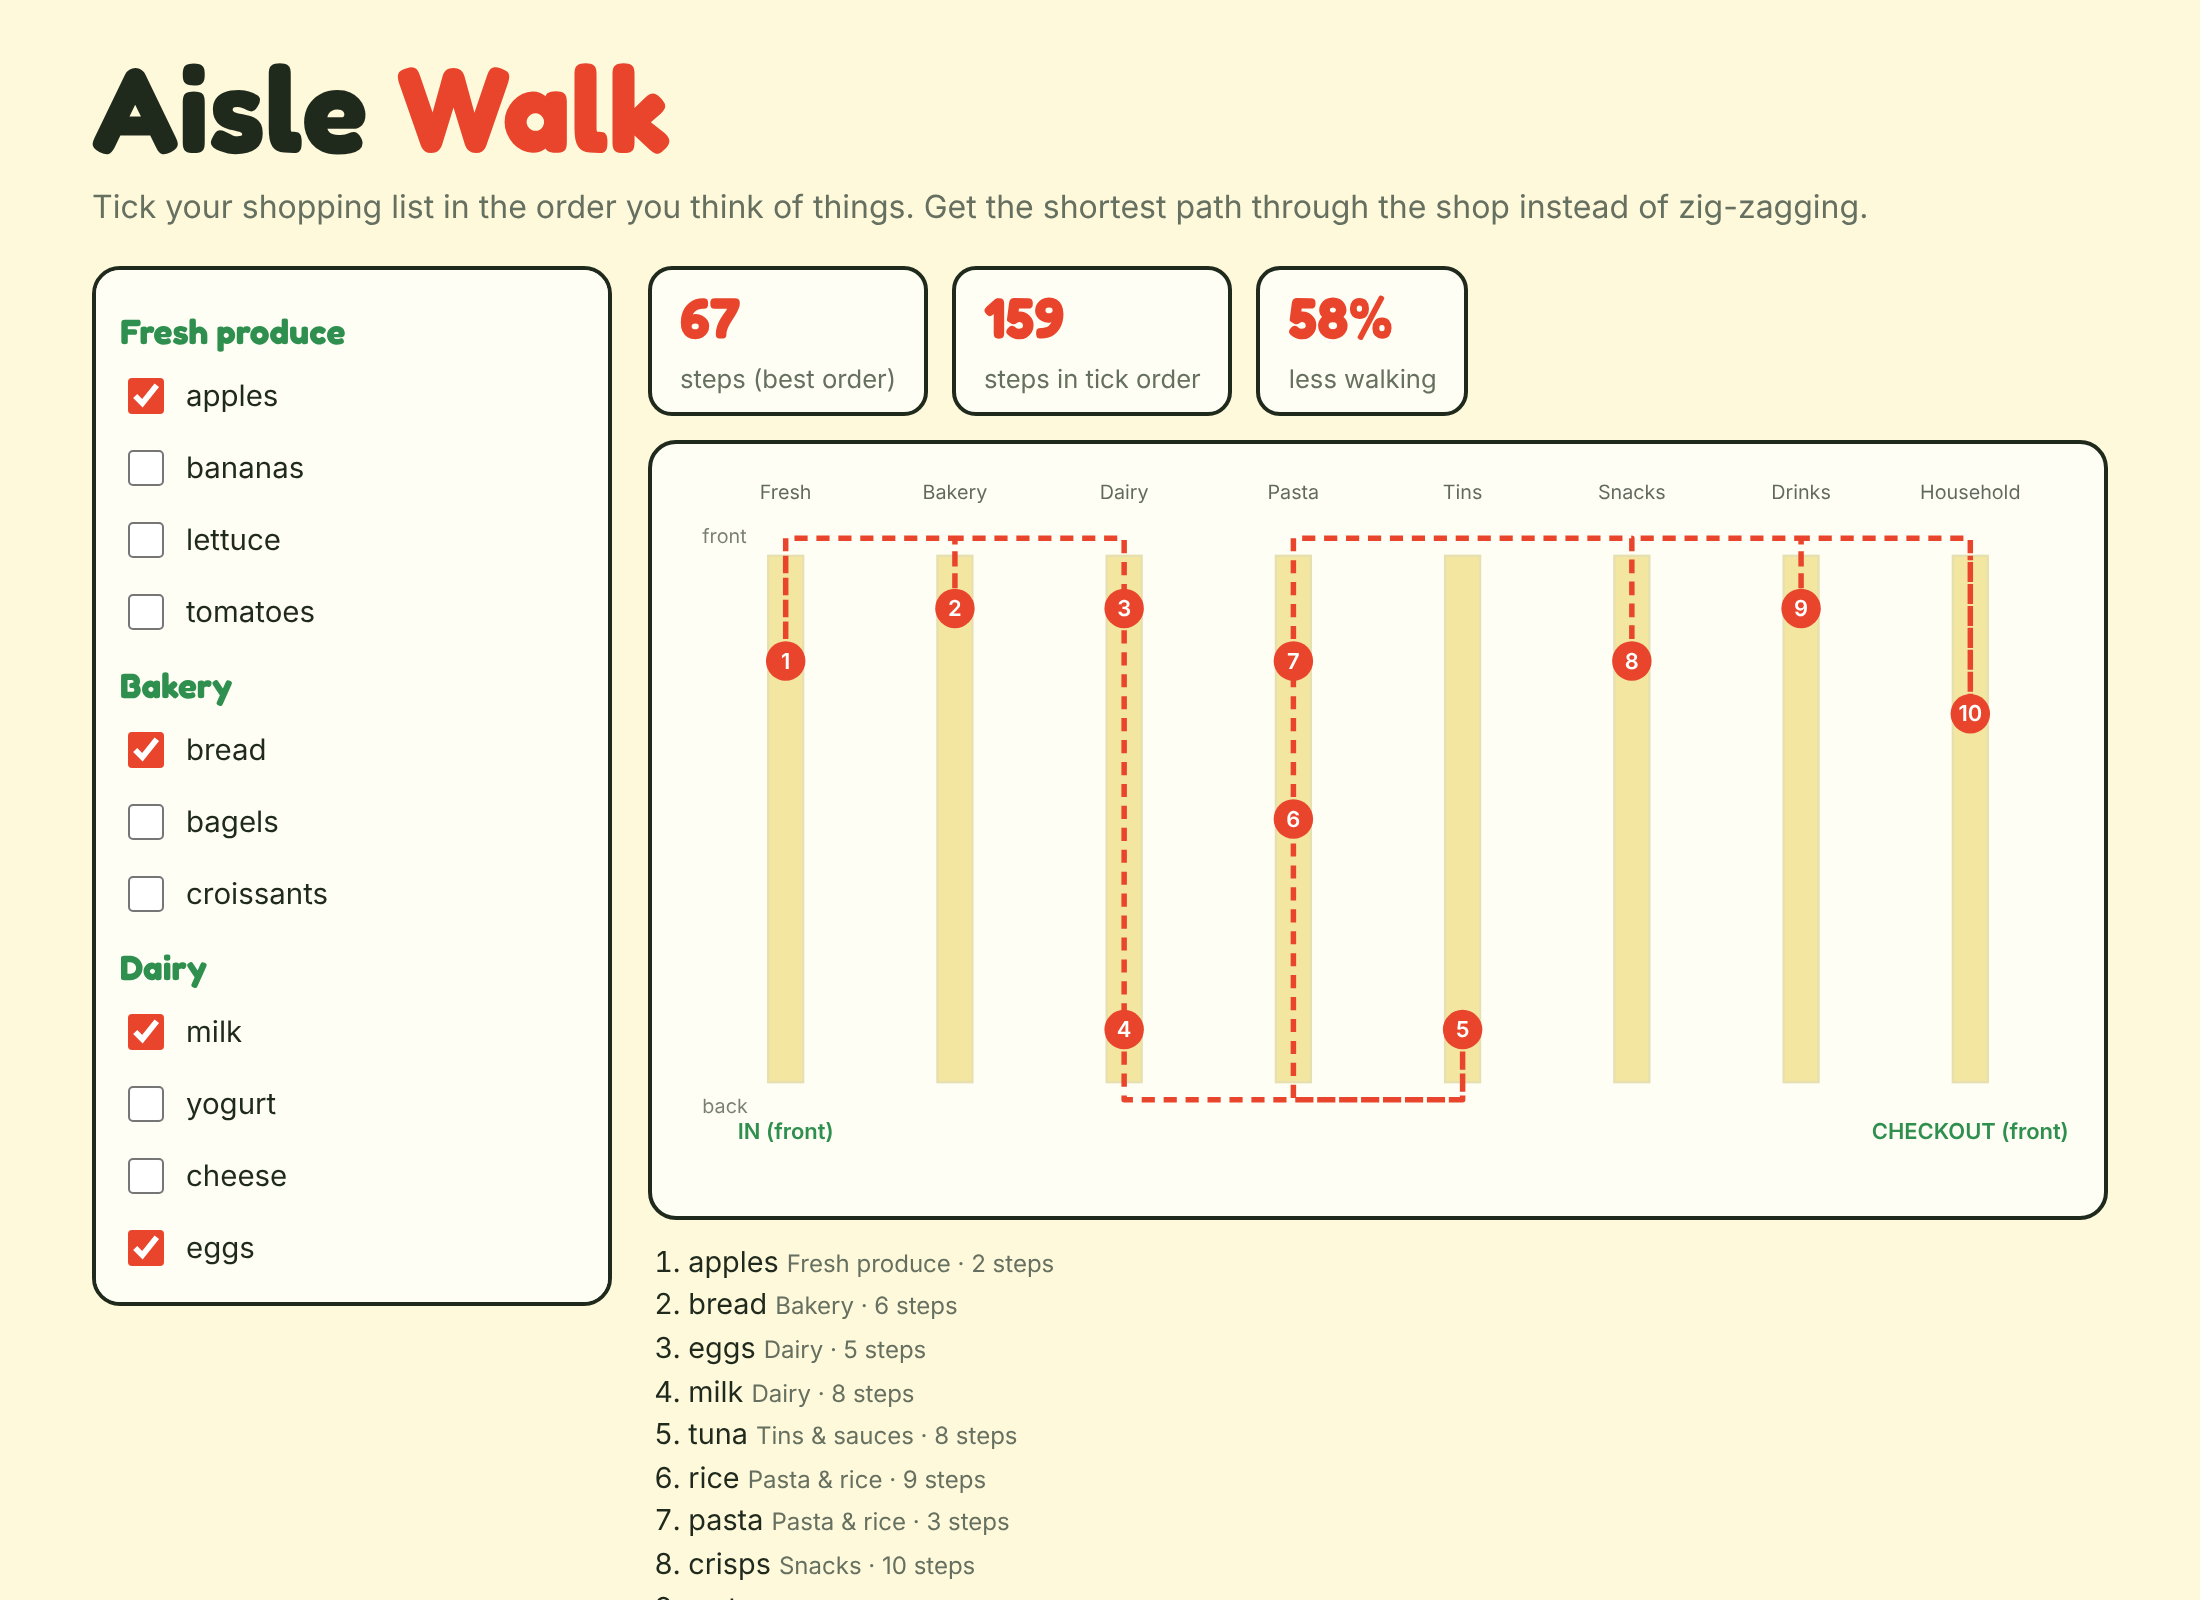
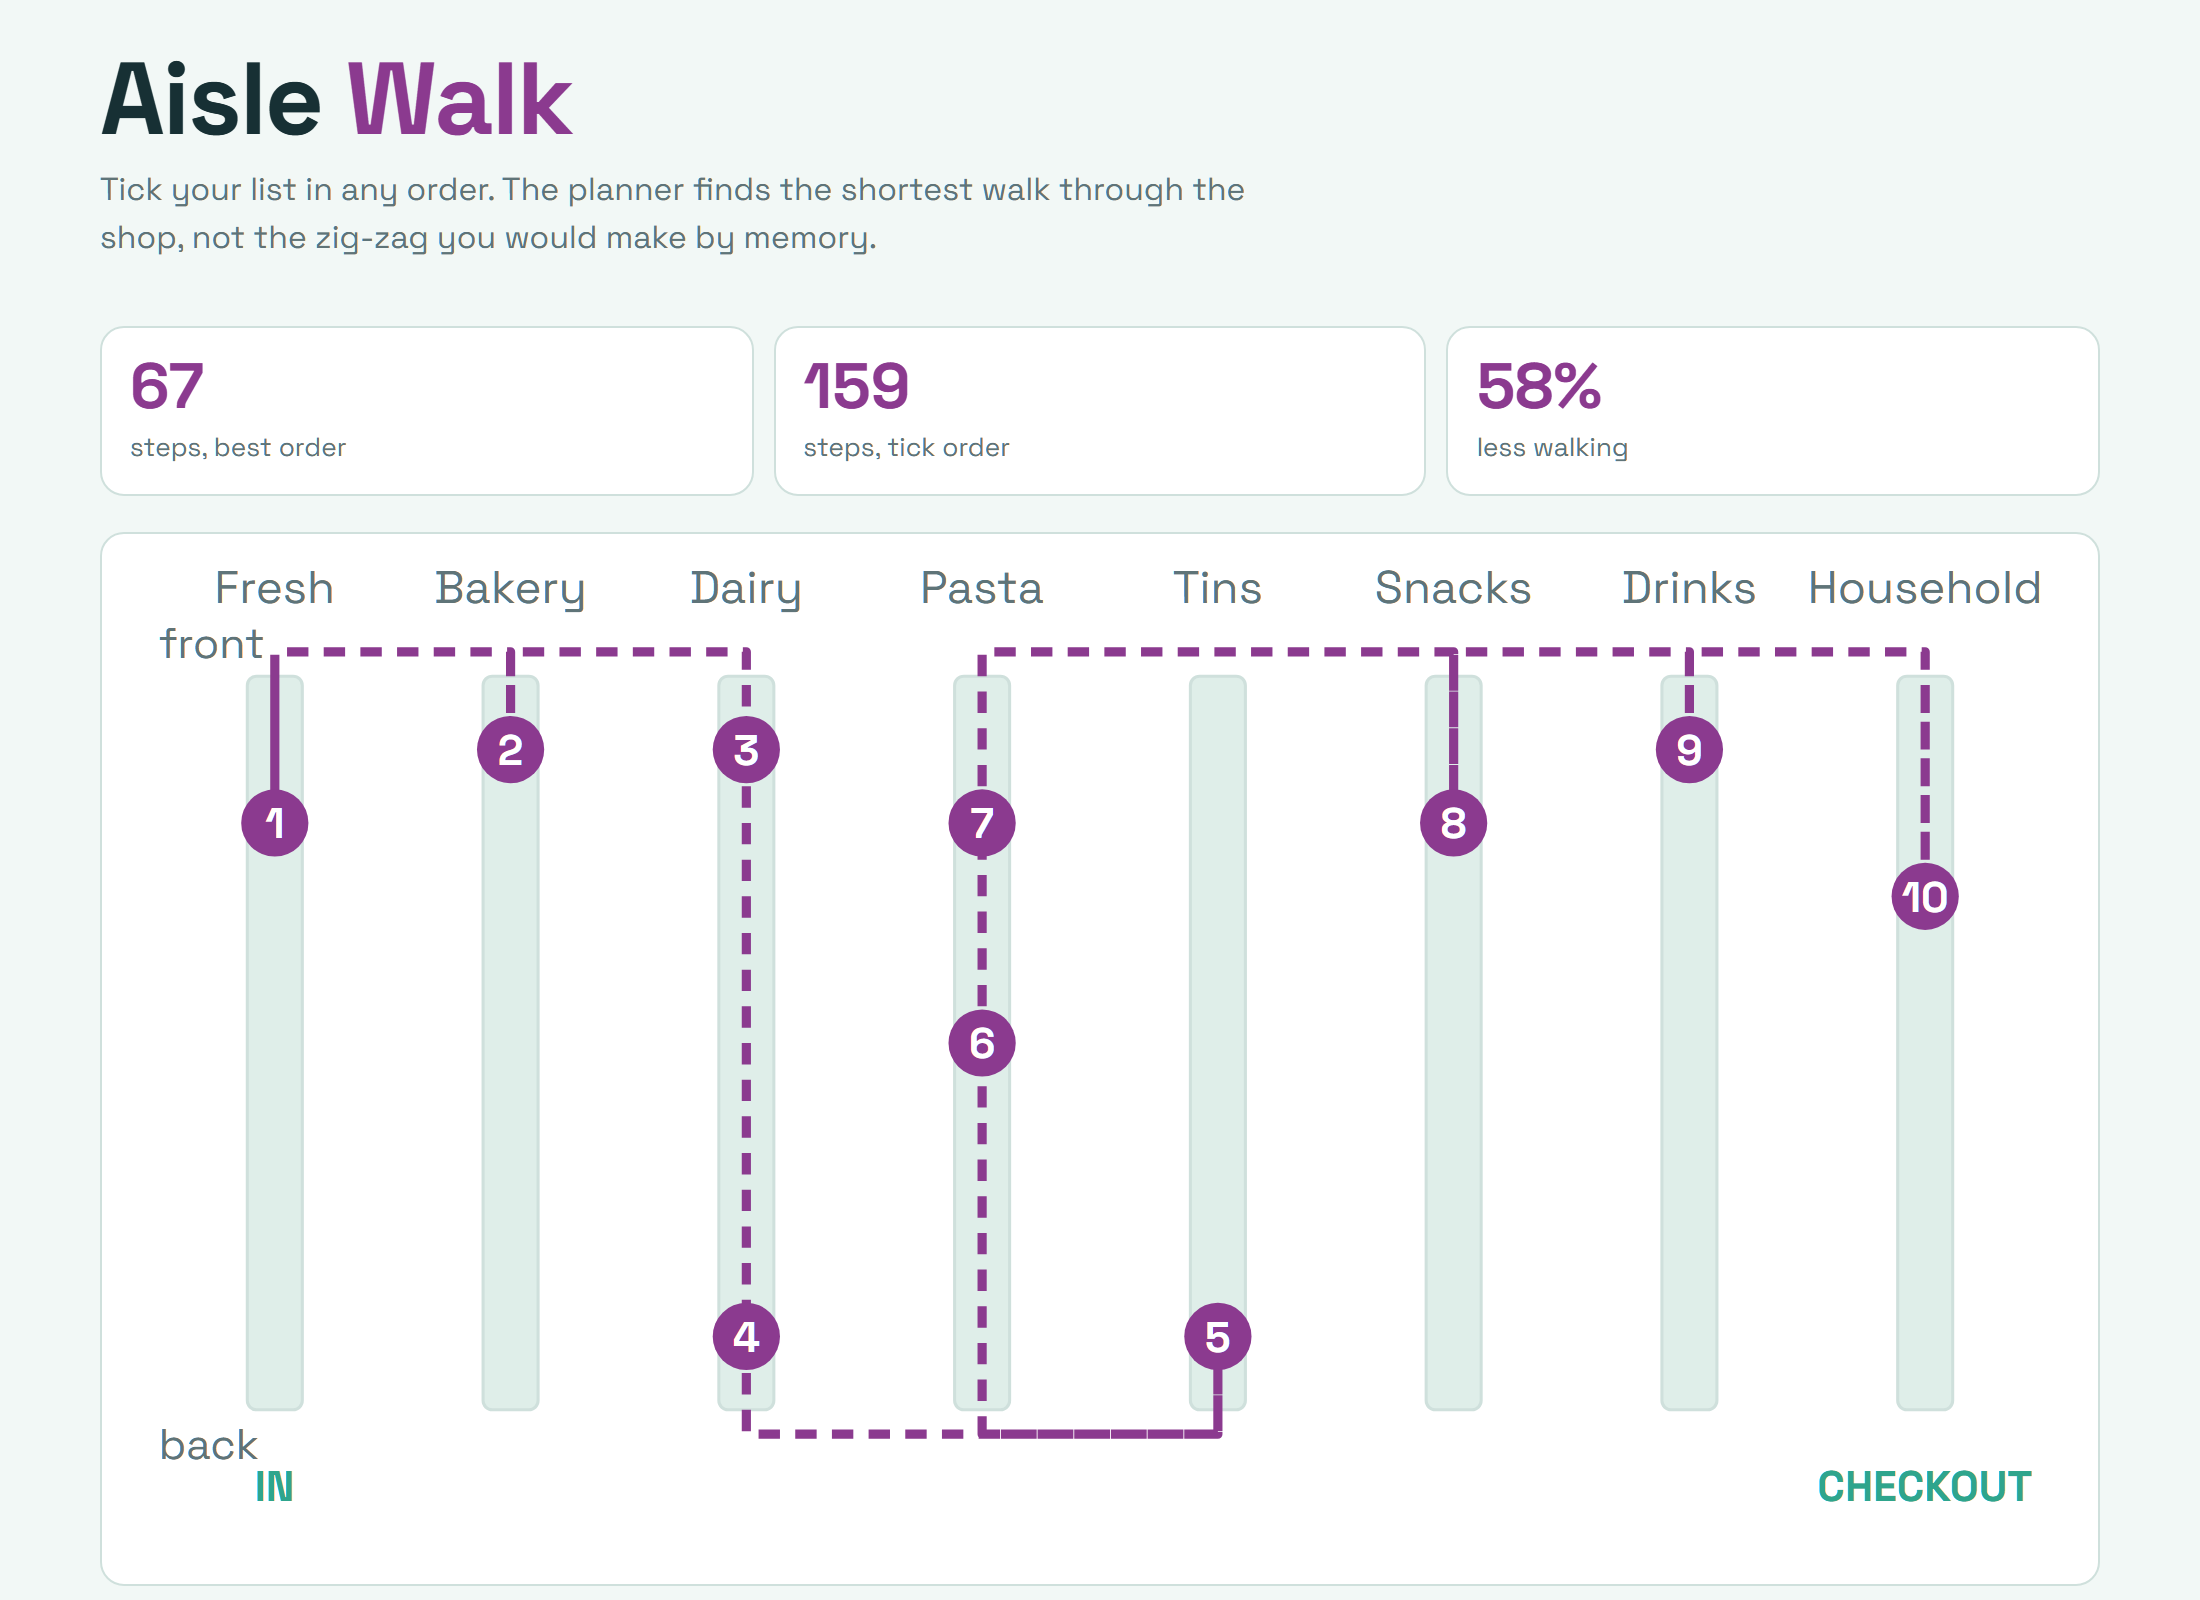
Redesign frontend: grocery-aisle-route

diff --git a/static/index.html b/static/index.html
@@ -1,44 +1,150 @@
-<!doctype html><html lang="en"><head><meta charset="utf-8"><meta name="viewport" content="width=device-width,initial-scale=1"><title>Aisle Walk</title>
-<link href="https://fonts.googleapis.com/css2?family=Fredoka:wght@500;700&family=Inter:wght@400;600&display=swap" rel="stylesheet">
+<!doctype html>
+<html lang="en">
+<head>
+<meta charset="utf-8">
+<meta name="viewport" content="width=device-width,initial-scale=1">
+<title>Aisle Walk</title>
+<link href="https://fonts.googleapis.com/css2?family=Space+Grotesk:wght@400;500;700&display=swap" rel="stylesheet">
 <style>
-:root{--bg:#fff9db;--card:#fffef5;--ink:#1f2a1d;--mute:#667060;--tomato:#e8452c;--leaf:#2f8f4e;--line:#e6dfb0;--shelf:#f2e6a0}
-@media(prefers-color-scheme:dark){:root{--bg:#171a12;--card:#20241a;--ink:#f4f1da;--mute:#a7aa97;--tomato:#ff6b50;--leaf:#6cd08a;--line:#383d2c;--shelf:#3a3a20}}
-*{box-sizing:border-box}body{margin:0;background:var(--bg);color:var(--ink);font:16px/1.5 Inter,sans-serif}
-main{max-width:1040px;margin:auto;padding:24px 16px 56px}h1{font:700 clamp(2.2rem,8vw,3.8rem)/1 Fredoka;margin:0}h1 span{color:var(--tomato)}.sub{color:var(--mute);margin:6px 0 18px}
-.two{display:grid;grid-template-columns:minmax(0,260px) minmax(0,1fr);gap:18px;align-items:start}@media(max-width:720px){.two{grid-template-columns:1fr}}
-.list{background:var(--card);border:2px solid var(--ink);border-radius:14px;padding:12px;max-height:520px;overflow:auto}.list h2{font:700 1.1rem Fredoka;margin:8px 0 4px;color:var(--leaf)}
-.list label{display:flex;align-items:center;gap:8px;min-height:36px;font-size:.92rem;cursor:pointer}input[type=checkbox]{accent-color:var(--tomato);width:18px;height:18px}:focus-visible{outline:3px solid var(--tomato);outline-offset:2px}
-.map{background:var(--card);border:2px solid var(--ink);border-radius:14px;padding:12px;overflow-x:auto}svg{width:100%;min-width:560px;height:auto;display:block}
-.stats{display:flex;flex-wrap:wrap;gap:12px;margin-bottom:12px}.s{border:2px solid var(--ink);border-radius:12px;padding:6px 14px;background:var(--card)}.s b{display:block;font:700 1.8rem Fredoka;color:var(--tomato)}.s span{font-size:.8rem;color:var(--mute)}
-ol{margin:10px 0 0;padding-left:1.4em;font-size:.9rem}li small{color:var(--mute)}
-</style></head><body><main>
-<h1>Aisle <span>Walk</span></h1><p class="sub">Tick your shopping list in the order you think of things. Get the shortest path through the shop instead of zig-zagging.</p>
-<div class="two"><div class="list" id="l" role="group" aria-label="Shopping list"></div>
-<div><div class="stats" id="st" aria-live="polite"></div><div class="map"><svg id="m" viewBox="0 0 640 330" role="img" aria-label="Store map with route"></svg></div><ol id="o"></ol></div></div></main>
+:root{
+  --paper:#f2f8f6;--panel:#ffffff;--ink:#173034;--mute:#5f7478;--rule:#cfe0dc;
+  --plum:#8b3a8f;--mint:#2fa58c;--shelf:#dfeee9;--tick:#ffffff;
+}
+@media (prefers-color-scheme: dark){
+  :root{
+    --paper:#0e1d20;--panel:#152a2e;--ink:#e4f2ef;--mute:#93aeab;--rule:#27444a;
+    --plum:#d18ad6;--mint:#5fd3b8;--shelf:#1e3a40;--tick:#0e1d20;
+  }
+}
+*{box-sizing:border-box}
+html{background:var(--paper)}
+body{margin:0;min-height:100vh;background:var(--paper);color:var(--ink);
+  font:16px/1.5 "Space Grotesk",system-ui,sans-serif;padding:16px}
+main{max-width:1000px;margin:0 auto}
+header{padding:8px 0 14px}
+h1{font-size:clamp(2rem,7vw,3.2rem);line-height:1;margin:0;font-weight:700;letter-spacing:-.02em}
+h1 span{color:var(--plum)}
+.sub{color:var(--mute);margin:8px 0 0;max-width:60ch}
+h2{font-size:.8rem;font-weight:700;letter-spacing:.12em;text-transform:uppercase;color:var(--mute);margin:0 0 8px}
+section{margin-top:18px}
+.stats{display:grid;grid-template-columns:repeat(auto-fit,minmax(150px,1fr));gap:10px}
+.tile{background:var(--panel);border:1px solid var(--rule);border-radius:12px;padding:12px 14px}
+.tile b{display:block;font-size:2rem;line-height:1.1;color:var(--plum);font-weight:700}
+.tile span{font-size:.82rem;color:var(--mute)}
+.mapbox{background:var(--panel);border:1px solid var(--rule);border-radius:12px;padding:10px}
+svg{width:100%;height:auto;display:block}
+.walk{background:var(--panel);border:1px solid var(--rule);border-radius:12px;padding:12px 14px}
+ol{margin:0;padding-left:1.4em;columns:2;column-gap:24px;font-size:.95rem}
+@media (max-width:560px){ol{columns:1}}
+li{break-inside:avoid;padding:2px 0}li small{display:block;color:var(--mute);font-size:.82rem}
+.empty{color:var(--mute);margin:0;font-size:.95rem}
+.aisles{display:grid;grid-template-columns:repeat(auto-fit,minmax(180px,1fr));gap:10px}
+.aisle{background:var(--panel);border:1px solid var(--rule);border-left:4px solid var(--mint);border-radius:10px;padding:10px 12px}
+.aisle h3{margin:0 0 4px;font-size:.92rem;font-weight:500;color:var(--mute)}
+label.pick{display:flex;align-items:center;gap:8px;min-height:32px;font-size:.95rem;cursor:pointer}
+input[type=checkbox]{accent-color:var(--plum);width:18px;height:18px;margin:0}
+:focus-visible{outline:3px solid var(--mint);outline-offset:2px}
+</style>
+</head>
+<body>
+<main>
+  <header>
+    <h1>Aisle <span>Walk</span></h1>
+    <p class="sub">Tick your list in any order. The planner finds the shortest walk through the shop, not the zig-zag you would make by memory.</p>
+  </header>
+
+  <section aria-label="Route summary">
+    <div class="stats" id="st" aria-live="polite"></div>
+  </section>
+
+  <section aria-label="Store map">
+    <div class="mapbox"><svg id="m" viewBox="0 0 640 330" role="img" aria-label="Store map with route"></svg></div>
+  </section>
+
+  <section aria-label="Walk order">
+    <h2>Walk order</h2>
+    <div class="walk"><ol id="o"></ol><p class="empty" id="none" hidden>Tick something to plan a walk.</p></div>
+  </section>
+
+  <section aria-label="Shopping list">
+    <h2>Your list, by aisle</h2>
+    <div class="aisles" id="l"></div>
+  </section>
+</main>
 <script>
-const $=i=>document.getElementById(i);let store;const picked=["milk","apples","pasta","water","bread","tuna","crisps","dish soap","eggs","rice"];
-const X=a=>50+a*(540/7),Y=d=>40+d*24;
-function pos(a,d){return [X(a),Y(d)]}
-function sync(e){const i=picked.indexOf(e.target.value);if(e.target.checked&&i<0)picked.push(e.target.value);if(!e.target.checked&&i>=0)picked.splice(i,1);go()}
-async function go(){const items=picked.slice();
-if(!items.length){$("st").innerHTML="";$("o").innerHTML="";draw([],[]);return}
-const d=await (await fetch("/route",{method:"POST",headers:{"Content-Type":"application/json"},body:JSON.stringify({items})})).json();
-$("st").innerHTML=`<div class="s"><b>${d.length}</b><span>steps (best order)</span></div><div class="s"><b>${d.list_order_length}</b><span>steps in tick order</span></div><div class="s"><b>${Math.round((1-d.length/d.list_order_length)*100)}%</b><span>less walking</span></div>`;
-$("o").innerHTML=d.steps.map(s=>`<li>${s.item} <small>${s.aisle_name} · ${s.leg} steps</small></li>`).join("");
-draw(d.steps,items)}
-function draw(steps,items){let g="";
-for(let a=0;a<store.aisles;a++){g+=`<rect x="${X(a)-8}" y="${Y(0)}" width="16" height="${Y(store.depth)-Y(0)}" fill="var(--shelf)" stroke="var(--line)"/><text x="${X(a)}" y="14" font-size="9" text-anchor="middle" fill="currentColor" opacity=".7">${store.aisle_names[a].split(" ")[0]}</text>`}
-g+=`<text x="12" y="${Y(0)-6}" font-size="9" fill="currentColor" opacity=".6">front</text><text x="12" y="${Y(store.depth)+14}" font-size="9" fill="currentColor" opacity=".6">back</text>`;
-const pts=[[0,0],...steps.slice(0,-1).map(s=>[s.aisle,s.depth]),[store.aisles-1,0]];
-let path="M";const route=[];let cur=[0,0];
-for(const s of steps){const nxt=[s.aisle,s.depth];route.push(cur,nxt);cur=nxt}
-let p="";for(let i=0;i<route.length;i+=2){const [a1,d1]=route[i],[a2,d2]=route[i+1];const [x1,y1]=pos(a1,d1),[x2,y2]=pos(a2,d2);
-if(a1===a2)p+=`M${x1},${y1}L${x2},${y2}`;else{const front=d1+d2<=(2*store.depth-d1-d2);const cy=front?Y(0)-8:Y(store.depth)+8;p+=`M${x1},${y1}L${x1},${cy}L${x2},${cy}L${x2},${y2}`}}
-g+=`<path d="${p}" fill="none" stroke="var(--tomato)" stroke-width="2.5" stroke-linejoin="round" stroke-dasharray="6 4"/>`;
-steps.forEach((s,i)=>{if(s.item==="Checkout")return;const [x,y]=pos(s.aisle,s.depth);g+=`<circle cx="${x}" cy="${y}" r="9" fill="var(--tomato)"/><text x="${x}" y="${y+3.5}" font-size="10" font-weight="700" text-anchor="middle" fill="#fff">${i+1}</text>`});
-g+=`<text x="${X(0)}" y="${Y(store.depth)+26}" font-size="10" fill="var(--leaf)" font-weight="700" text-anchor="middle">IN (front)</text><text x="${X(store.aisles-1)}" y="${Y(store.depth)+26}" font-size="10" fill="var(--leaf)" font-weight="700" text-anchor="middle">CHECKOUT (front)</text>`;
-$("m").innerHTML=g}
-(async()=>{store=await (await fetch("/store")).json();
-$("l").innerHTML=store.aisle_names.map((n,a)=>`<h2>${n}</h2>`+Object.entries(store.items).filter(([k,v])=>v[0]===a).map(([k])=>`<label><input type="checkbox" value="${k}" ${picked.includes(k)?"checked":""}>${k}</label>`).join("")).join("");
-document.querySelectorAll("#l input").forEach(e=>e.onchange=sync);go()})();
-</script></body></html>
+const $ = i => document.getElementById(i);
+let store;
+const picked = ["milk","apples","pasta","water","bread","tuna","crisps","dish soap","eggs","rice"];
+const X = a => 50 + a * (540 / 7), Y = d => 40 + d * 24;
+const pos = (a, d) => [X(a), Y(d)];
+
+function sync(e) {
+  const i = picked.indexOf(e.target.value);
+  if (e.target.checked && i < 0) picked.push(e.target.value);
+  if (!e.target.checked && i >= 0) picked.splice(i, 1);
+  go();
+}
+
+async function go() {
+  const items = picked.slice();
+  if (!items.length) {
+    $("st").innerHTML = ""; $("o").innerHTML = ""; $("none").hidden = false; draw([], []);
+    return;
+  }
+  $("none").hidden = true;
+  const d = await (await fetch("/route", {method: "POST", headers: {"Content-Type": "application/json"}, body: JSON.stringify({items})})).json();
+  $("st").innerHTML = `<div class="tile"><b>${d.length}</b><span>steps, best order</span></div>`
+    + `<div class="tile"><b>${d.list_order_length}</b><span>steps, tick order</span></div>`
+    + `<div class="tile"><b>${Math.round((1 - d.length / d.list_order_length) * 100)}%</b><span>less walking</span></div>`;
+  $("o").innerHTML = d.steps.map(s => `<li>${s.item}<small>${s.aisle_name} · ${s.leg} steps</small></li>`).join("");
+  draw(d.steps, items);
+}
+
+function draw(steps, items) {
+  let g = "";
+  for (let a = 0; a < store.aisles; a++) {
+    g += `<rect x="${X(a) - 9}" y="${Y(0)}" width="18" height="${Y(store.depth) - Y(0)}" rx="3" style="fill:var(--shelf);stroke:var(--rule)"/>`
+       + `<text x="${X(a)}" y="16" font-size="15" text-anchor="middle" style="fill:var(--mute)">${store.aisle_names[a].split(" ")[0]}</text>`;
+  }
+  g += `<text x="12" y="${Y(0) - 6}" font-size="14" style="fill:var(--mute)">front</text>`
+     + `<text x="12" y="${Y(store.depth) + 16}" font-size="14" style="fill:var(--mute)">back</text>`;
+
+  const route = [];
+  let cur = [0, 0];
+  for (const s of steps) { const nxt = [s.aisle, s.depth]; route.push(cur, nxt); cur = nxt; }
+  let p = "";
+  for (let i = 0; i < route.length; i += 2) {
+    const [a1, d1] = route[i], [a2, d2] = route[i + 1];
+    const [x1, y1] = pos(a1, d1), [x2, y2] = pos(a2, d2);
+    if (a1 === a2) p += `M${x1},${y1}L${x2},${y2}`;
+    else {
+      const front = d1 + d2 <= (2 * store.depth - d1 - d2);
+      const cy = front ? Y(0) - 8 : Y(store.depth) + 8;
+      p += `M${x1},${y1}L${x1},${cy}L${x2},${cy}L${x2},${y2}`;
+    }
+  }
+  g += `<path d="${p}" fill="none" stroke-width="3" stroke-linejoin="round" stroke-dasharray="7 5" style="stroke:var(--plum)"/>`;
+  steps.forEach((s, i) => {
+    if (s.item === "Checkout") return;
+    const [x, y] = pos(s.aisle, s.depth);
+    g += `<circle cx="${x}" cy="${y}" r="11" style="fill:var(--plum)"/>`
+       + `<text x="${x}" y="${y + 5}" font-size="14" font-weight="700" text-anchor="middle" style="fill:var(--tick)">${i + 1}</text>`;
+  });
+  g += `<text x="${X(0)}" y="${Y(store.depth) + 30}" font-size="14" font-weight="700" text-anchor="middle" style="fill:var(--mint)">IN</text>`
+     + `<text x="${X(store.aisles - 1)}" y="${Y(store.depth) + 30}" font-size="14" font-weight="700" text-anchor="middle" style="fill:var(--mint)">CHECKOUT</text>`;
+  $("m").innerHTML = g;
+}
+
+(async () => {
+  store = await (await fetch("/store")).json();
+  $("l").innerHTML = store.aisle_names.map((n, a) =>
+    `<div class="aisle"><h3>${n}</h3>`
+    + Object.entries(store.items).filter(([k, v]) => v[0] === a).map(([k]) =>
+        `<label class="pick"><input type="checkbox" value="${k}" ${picked.includes(k) ? "checked" : ""}>${k}</label>`).join("")
+    + `</div>`).join("");
+  document.querySelectorAll("#l input").forEach(e => e.onchange = sync);
+  go();
+})();
+</script>
+</body>
+</html>
